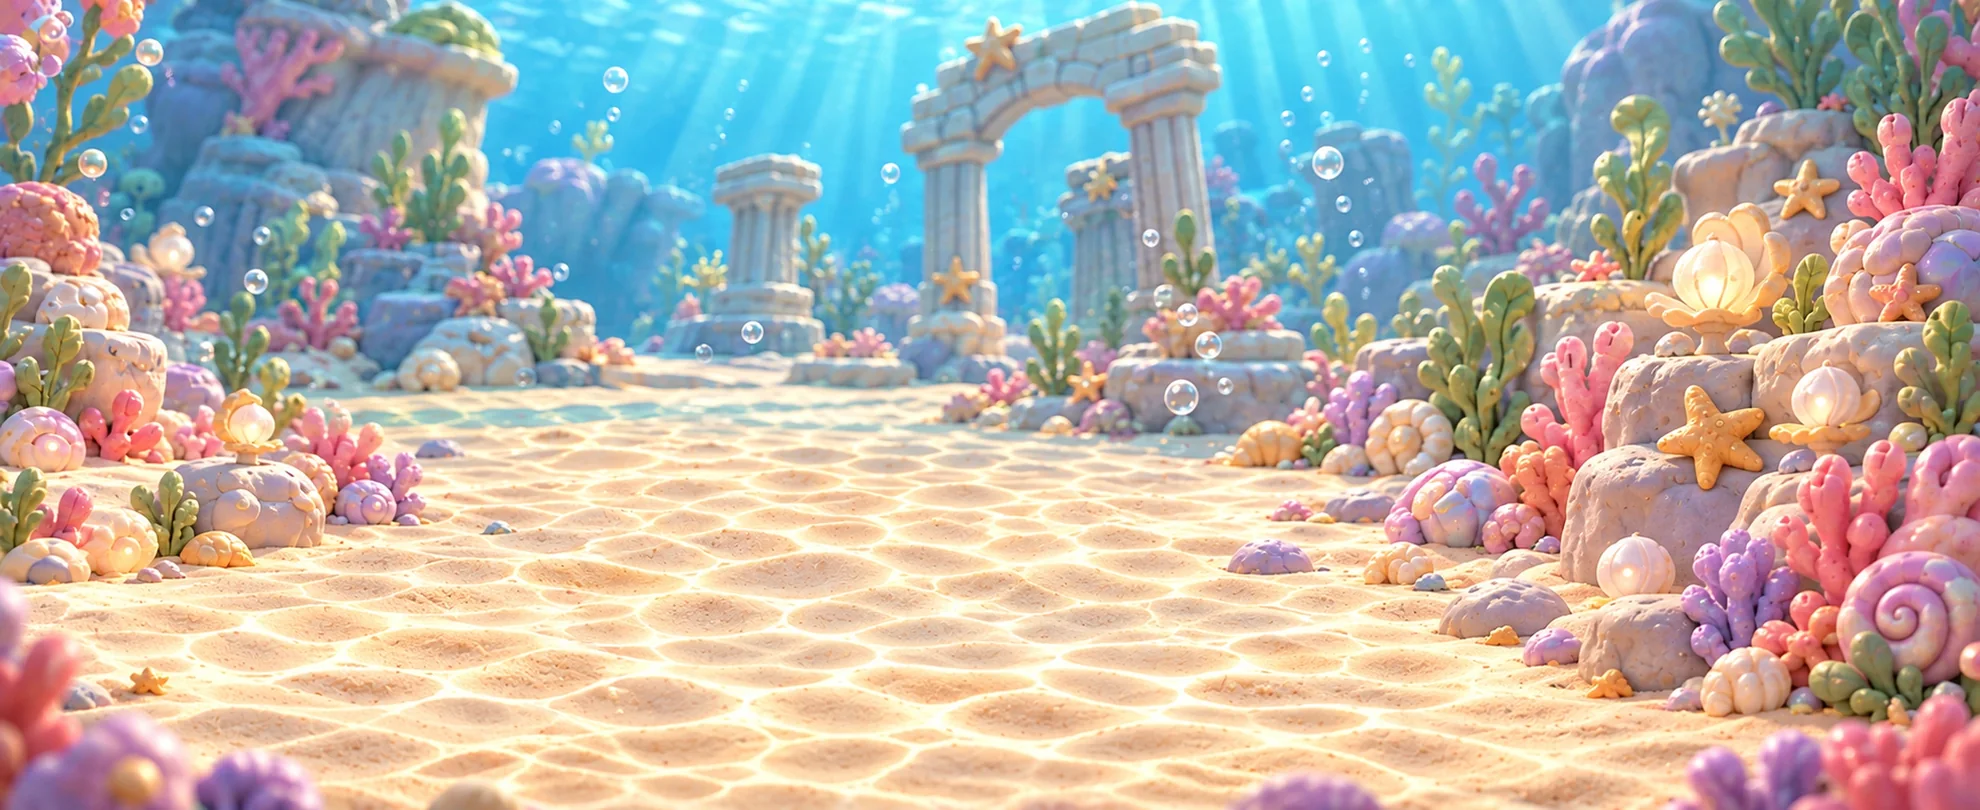
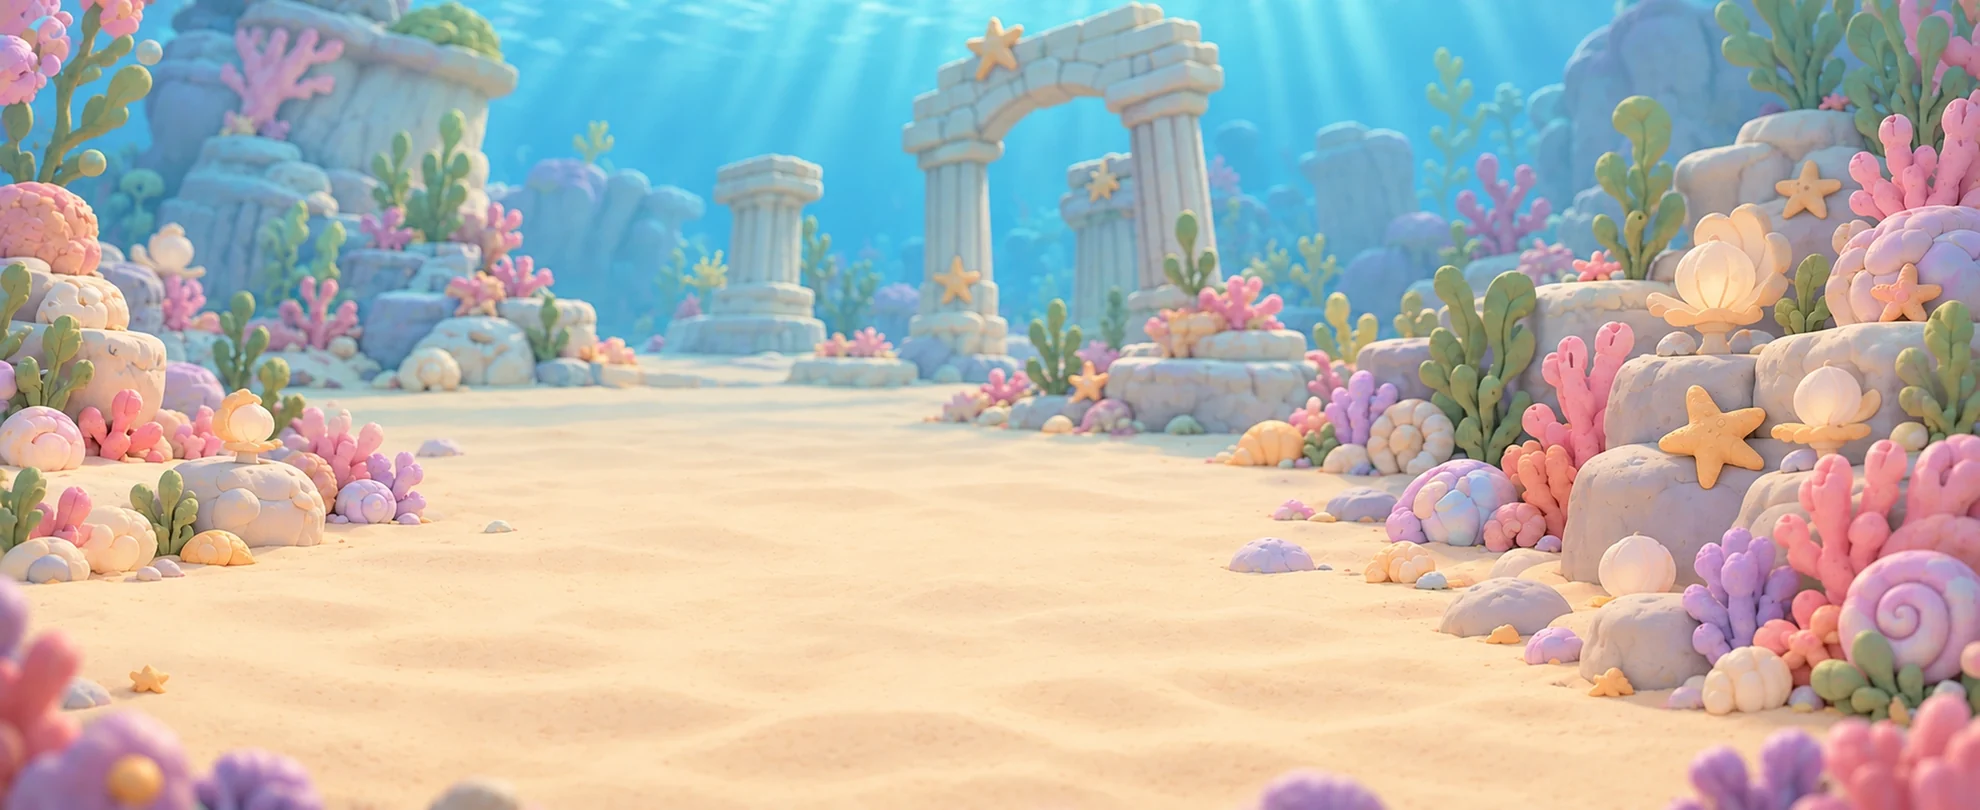
v0.15.5: 조절형 UI v2 프레임(9조각)·차분한 전투 배경·바닥 그림자
- 상태창·로그창 = status-frame, 조작판 = command-frame, 기술·합동기 카드 = skill-card
- 실제 분리된 9조각 파일을 겹쳐 조립(모서리 고정, 테두리는 한 방향만, 가운데는 양방향), 1px 겹쳐 틈 없앰
- 해저 전투 배경 calm판, 캐릭터 발밑 바닥 그림자
- 버전 0.15.5, 앱 1.0.55

Claude-Session: https://claude.ai/code/session_01WSF9SsDYkJcYrkcxTs43oM

diff --git a/galmaegiman-confirmed/public/duel/index.html b/galmaegiman-confirmed/public/duel/index.html
@@ -1729,6 +1729,30 @@ header.pkh .pkmine{margin-left:auto;margin-right:64px;flex:none;padding:6px 12px
   .scene .place{left:3.3%;top:3.1vh;height:9.4vh;min-height:30px;display:flex;align-items:center;padding:0 4.5vh 0 max(10vh,38px);font-size:clamp(13px,3.6vh,24px);letter-spacing:.02em;color:#3b2614;background:#fff7e6;border:3px solid #e0a43a;box-shadow:0 3px 0 rgba(122,78,42,.45);border-radius:999px}
   .scene .place::before{content:"";position:absolute;left:-2.2vh;top:50%;transform:translateY(-50%);height:max(12vh,44px);aspect-ratio:95/106;background:url(/duel/intro/b3_shell.webp) center/contain no-repeat}
 }
+/* ════ v0.15.4b 조절형 UI v2(galmaegiman-modular-ui-v2): 크림·골드 프레임 3종을 실제 분리된 9조각 파일로 조립.
+   모서리 4개는 같은 정사각형(--fc) 고정, 위·아래 조각은 가로만, 좌·우 조각은 세로만, 가운데는 둘 다 늘림. 조각끼리 1px 겹쳐 틈 없앰(모서리가 위) ════ */
+:root{--fc:26px}
+@media (max-height:430px){:root{--fc:22px}}
+/* 상태창(아군·상대) · 짧은 로그창 */
+#arena .box{border:0 !important;border-image:none !important;background:none !important;box-shadow:none !important;padding:calc(var(--fc) * .5) calc(var(--fc) * .7) calc(var(--fc) * .66) !important;border-radius:0 !important;color:#3b2614}
+#arena .box{isolation:isolate}
+#arena .box::before{content:"";position:absolute;inset:0;z-index:-1;pointer-events:none;background-image:url(/duel/intro/f9_status_tl.webp),url(/duel/intro/f9_status_tr.webp),url(/duel/intro/f9_status_bl.webp),url(/duel/intro/f9_status_br.webp),url(/duel/intro/f9_status_t.webp),url(/duel/intro/f9_status_b.webp),url(/duel/intro/f9_status_l.webp),url(/duel/intro/f9_status_r.webp),url(/duel/intro/f9_status_c.webp);background-repeat:no-repeat;background-position:0 0,100% 0,0 100%,100% 100%,calc(var(--fc) - 1px) 0,calc(var(--fc) - 1px) 100%,0 calc(var(--fc) - 1px),100% calc(var(--fc) - 1px),calc(var(--fc) - 1px) calc(var(--fc) - 1px);background-size:var(--fc) var(--fc),var(--fc) var(--fc),var(--fc) var(--fc),var(--fc) var(--fc),calc(100% - 2 * var(--fc) + 2px) var(--fc),calc(100% - 2 * var(--fc) + 2px) var(--fc),var(--fc) calc(100% - 2 * var(--fc) + 2px),var(--fc) calc(100% - 2 * var(--fc) + 2px),calc(100% - 2 * var(--fc) + 2px) calc(100% - 2 * var(--fc) + 2px)}
+#app:has(#arena) #msg{border:0 !important;background:none !important;box-shadow:none !important;position:relative;padding:10px 18px !important;min-height:calc(2 * var(--fc)) !important;line-height:1.35;height:auto}
+#app:has(#arena) #msg{isolation:isolate}
+#app:has(#arena) #msg::before{content:"";position:absolute;inset:0;z-index:-1;pointer-events:none;background-image:url(/duel/intro/f9_status_tl.webp),url(/duel/intro/f9_status_tr.webp),url(/duel/intro/f9_status_bl.webp),url(/duel/intro/f9_status_br.webp),url(/duel/intro/f9_status_t.webp),url(/duel/intro/f9_status_b.webp),url(/duel/intro/f9_status_l.webp),url(/duel/intro/f9_status_r.webp),url(/duel/intro/f9_status_c.webp);background-repeat:no-repeat;background-position:0 0,100% 0,0 100%,100% 100%,calc(var(--fc) - 1px) 0,calc(var(--fc) - 1px) 100%,0 calc(var(--fc) - 1px),100% calc(var(--fc) - 1px),calc(var(--fc) - 1px) calc(var(--fc) - 1px);background-size:var(--fc) var(--fc),var(--fc) var(--fc),var(--fc) var(--fc),var(--fc) var(--fc),calc(100% - 2 * var(--fc) + 2px) var(--fc),calc(100% - 2 * var(--fc) + 2px) var(--fc),var(--fc) calc(100% - 2 * var(--fc) + 2px),var(--fc) calc(100% - 2 * var(--fc) + 2px),calc(100% - 2 * var(--fc) + 2px) calc(100% - 2 * var(--fc) + 2px)}
+/* 오른쪽 조작판: 나무 장식판 대신 이 프레임 */
+#app:has(#arena) .cmdbg{border:0 !important;border-image:none !important;position:relative}
+#app:has(#arena) .cmdbg{isolation:isolate}
+#app:has(#arena) .cmdbg::before{content:"";position:absolute;inset:0;z-index:-1;pointer-events:none;background-image:url(/duel/intro/f9_cmd_tl.webp),url(/duel/intro/f9_cmd_tr.webp),url(/duel/intro/f9_cmd_bl.webp),url(/duel/intro/f9_cmd_br.webp),url(/duel/intro/f9_cmd_t.webp),url(/duel/intro/f9_cmd_b.webp),url(/duel/intro/f9_cmd_l.webp),url(/duel/intro/f9_cmd_r.webp),url(/duel/intro/f9_cmd_c.webp);background-repeat:no-repeat;background-position:0 0,100% 0,0 100%,100% 100%,calc(var(--fc) - 1px) 0,calc(var(--fc) - 1px) 100%,0 calc(var(--fc) - 1px),100% calc(var(--fc) - 1px),calc(var(--fc) - 1px) calc(var(--fc) - 1px);background-size:var(--fc) var(--fc),var(--fc) var(--fc),var(--fc) var(--fc),var(--fc) var(--fc),calc(100% - 2 * var(--fc) + 2px) var(--fc),calc(100% - 2 * var(--fc) + 2px) var(--fc),var(--fc) calc(100% - 2 * var(--fc) + 2px),var(--fc) calc(100% - 2 * var(--fc) + 2px),calc(100% - 2 * var(--fc) + 2px) calc(100% - 2 * var(--fc) + 2px)}
+/* 기술 카드(합동기 포함): 평면 카드 → 프레임. 속성 색은 위쪽 안쪽 가는 줄로 */
+#panel .sk,#panel .combo-btn{position:relative;border:0 !important;background:none !important;box-shadow:none !important;border-radius:0 !important;padding:12px 14px 10px !important;color:#3b2614}
+#panel .sk,#panel .combo-btn{isolation:isolate}
+#panel .sk::before,#panel .combo-btn::before{content:"";position:absolute;inset:0;z-index:-1;pointer-events:none;background-image:url(/duel/intro/f9_skill_tl.webp),url(/duel/intro/f9_skill_tr.webp),url(/duel/intro/f9_skill_bl.webp),url(/duel/intro/f9_skill_br.webp),url(/duel/intro/f9_skill_t.webp),url(/duel/intro/f9_skill_b.webp),url(/duel/intro/f9_skill_l.webp),url(/duel/intro/f9_skill_r.webp),url(/duel/intro/f9_skill_c.webp);background-repeat:no-repeat;background-position:0 0,100% 0,0 100%,100% 100%,calc(var(--fc) - 1px) 0,calc(var(--fc) - 1px) 100%,0 calc(var(--fc) - 1px),100% calc(var(--fc) - 1px),calc(var(--fc) - 1px) calc(var(--fc) - 1px);background-size:var(--fc) var(--fc),var(--fc) var(--fc),var(--fc) var(--fc),var(--fc) var(--fc),calc(100% - 2 * var(--fc) + 2px) var(--fc),calc(100% - 2 * var(--fc) + 2px) var(--fc),var(--fc) calc(100% - 2 * var(--fc) + 2px),var(--fc) calc(100% - 2 * var(--fc) + 2px),calc(100% - 2 * var(--fc) + 2px) calc(100% - 2 * var(--fc) + 2px)}
+#panel .sk::after{content:"";position:absolute;left:18px;right:18px;top:6px;height:3px;border-radius:2px;background:var(--c,#c9a46a);opacity:.85}
+#panel .combo-btn b{color:#a3541b}
+#panel .sk:disabled{opacity:.5}
+/* 캐릭터 밑 바닥 그림자(캐릭터 아래, UI는 위). 자리는 placeMon이 발 위치에 맞춤 */
+@media (orientation:landscape){ #arena .plat{display:block !important;background:url(/duel/intro/f9_shadow.webp) center/100% 100% no-repeat !important;border:0 !important;box-shadow:none !important;border-radius:0 !important;transform:none !important;opacity:.9;z-index:0} }
 </style>
 </head>
 <body>

diff --git a/galmaegiman-confirmed/test/game.integration.test.ts b/galmaegiman-confirmed/test/game.integration.test.ts
@@ -1383,7 +1383,7 @@ suite('격리 SQLite 실제 트랜잭션 (v0.3)',()=>{
     const selected=(response:any)=>response.template.outputs.find((output:any)=>output.listCard).listCard.items[0];
     const firstButton=(response:any)=>response.template.outputs.find((output:any)=>output.carousel).carousel.items[0].buttons[0];
     try{
-      expect((await app.inject({method:'GET',url:'/health'})).json()).toMatchObject({edition:'GALMAEMI_118',version:'0.15.4'});
+      expect((await app.inject({method:'GET',url:'/health'})).json()).toMatchObject({edition:'GALMAEMI_118',version:'0.15.5'});
       for(const f of ['m-draw.jpg','ticket.jpg','gacha-MID.jpg','C1.jpg','s-oops.jpg','s-info.jpg','unknown.jpg'])expect((await app.inject({method:'GET',url:`/thumbs/${f}`})).statusCode).toBe(200);
       for(const f of ['X99.jpg','secret.jpg','..%2Fenv.jpg'])expect((await app.inject({method:'GET',url:`/thumbs/${f}`})).statusCode).toBe(404);
       await request('하급뽑기 2');

diff --git a/galmaegiman-confirmed/src/app.ts b/galmaegiman-confirmed/src/app.ts
@@ -14,7 +14,7 @@ import { registerWeb } from './web.js';
 import { battleRoster } from './battle/prototype.js';
 import { registerDuel } from './duel.js';
 import { registerMy, type KakaoLogin } from './my.js';
-export const VERSION='0.15.4';
+export const VERSION='0.15.5';
 export interface AppOptions {secret:string;botId?:string;log?:boolean;baseUrl:()=>Promise<string>;root?:string;kakaoLogin?:KakaoLogin;fetch?:typeof fetch;reviewCode?:string}
 export async function buildApp(db:PrismaClient,game:GameService,options:AppOptions){
   if(options.secret.length<32)throw new Error('SKILL_SECRET을 최소 32자로 설정하세요.');

diff --git a/galmaegiman-confirmed/docs/V0.3-DEPLOY.md b/galmaegiman-confirmed/docs/V0.3-DEPLOY.md
@@ -1166,3 +1166,11 @@ DB 반영 단계에서 새 유닛 3종이 추가만 됨(기존 유닛·플레이
 - 전투 배치 다듬기(사용자 검토 반영): 캐릭터 크기를 그림의 투명 여백을 뺀 실제 그림 영역으로 계산해 정해 둔 칸에 비율 그대로 맞춤(아군 잘림 없앰·상대 조금 크게, 상대 칸은 턴 표시 아래). 정보창은 이름·레벨 → 체력바+수치(아군 현재/최대, 상대 %) → 속성·상태·증강체 한 줄로 줄여 빈 공간 없앰. 「1턴 뒤」는 정보창 밖으로 띄움. 로그창 오른쪽은 설정 버튼 자리만큼 비움. 조작판 35.5% → 33.5%. 버튼 글자 그림은 네 버튼 모두 같은 높이·같은 줄, 안내 문구는 같은 글꼴·굵기·색·위치.
 - 앱 1.0.54.
 `"version":"0.15.4"` 확인.
+
+## v0.15.5 조절형 UI v2 프레임(9조각) · 차분한 전투 배경 · 바닥 그림자 (DB 변경 없음)
+- 받은 「galmaegiman-modular-ui-v2」 적용: 상태창(아군·상대)·로그창 = status-frame, 오른쪽 조작판 = command-frame(나무 장식판 대신), 기술 카드·합동기 카드 = skill-card.
+- 프레임은 통째로 늘리지 않고 실제 분리된 9조각 파일(intro/f9_*)을 겹쳐 조립: 모서리 4개는 같은 정사각형(26px, 낮은 화면 22px) 고정, 위·아래는 가로만, 좌·우는 세로만, 가운데는 둘 다. 조각끼리 1px 겹쳐 틈 없앰. 안쪽 여백도 모서리 크기에 비례.
+- 해저 전투 배경을 반짝임·대비를 줄인 「calm」판으로 교체, 캐릭터 발밑에 바닥 그림자(캐릭터 아래·UI 위 순서).
+- 기술 카드의 속성 색은 카드 위쪽 안쪽 가는 줄로 유지. 글자 분리 버튼은 그대로.
+- 앱 1.0.55.
+`"version":"0.15.5"` 확인.
